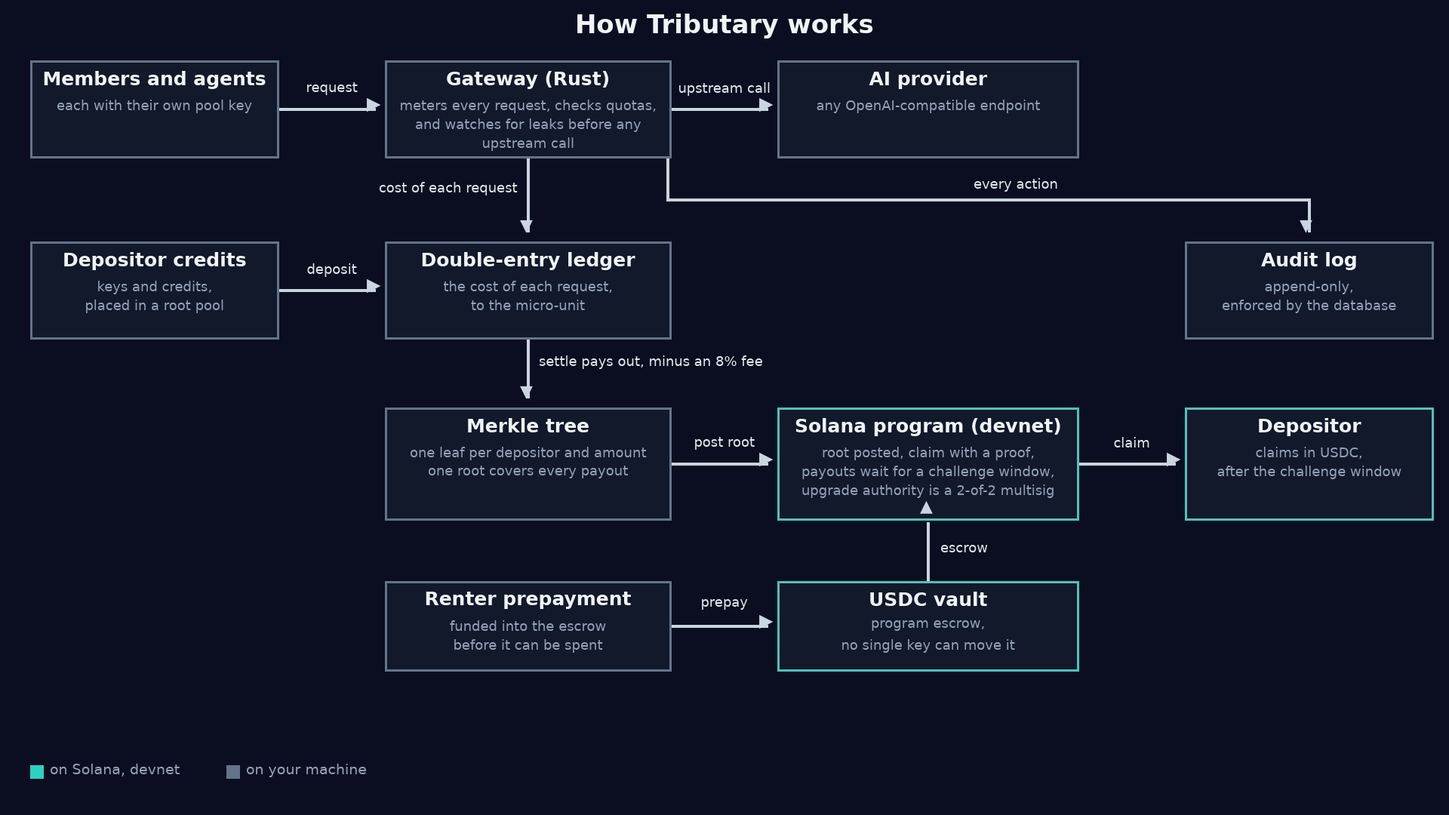
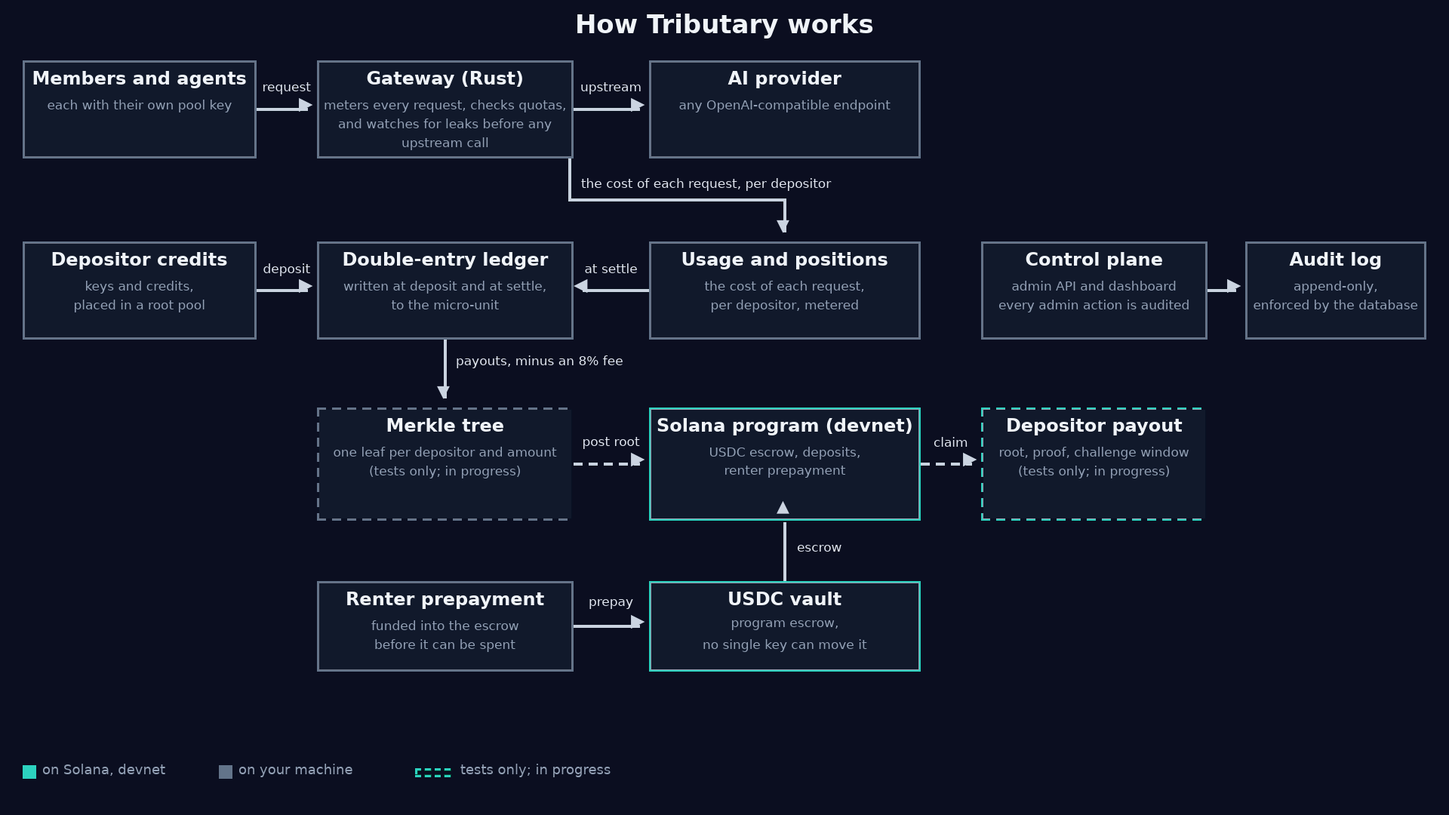
docs: README corrections after an independent review
A fresh reviewer, playing the event's AI judge, verified the README on
this branch against the repository, the chain and CI, and found twelve
errors, all in text the director wrote. Every one is corrected here:

- The worked example now uses the reproducible walkthrough run
  (5,400 burned, 432 fee, 4,968 paid) instead of unrecorded figures.
- Depositor mode was audited on 2026-11-18 and fixed on 2026-11-19; the
  README and the threat model no longer say "scheduled".
- The quickstart image is release v0.1.4, which carries depositor pools in
  a pre-audit form; the README says so.
- CI runs on pushes to main and on pull requests, not on every push.
- A request's cost is metered per request and posted to the books at settle;
  the README and the diagram said otherwise.
- The diagram's payout path is dashed and labelled "tests only"; a control
  plane box now feeds the audit log.
- Smaller corrections: the tagline, the pull size, a script that does not
  exist, two "in two minutes" headings, the event section, the landing link,
  the author line, alt text, the 2-of-3 production posture, one spelling of
  the event name, and "source-available" on the landing page.

Also records on A-062 the founder's ruling that a failed upstream answer
must not burn a depositor's credits (the repository had no trace of it).

Docs only: no code, no dependency, no test change.

diff --git a/landing/index.html b/landing/index.html
@@ -178,7 +178,7 @@ docker exec -it -e TRIBUTARY_DATABASE_URL=sqlite:///data/tributary.db \
         <summary>How is this different from OpenRouter or API relays?</summary>
         <p>They are hosted routers — one company's pipes. Your keys, traffic,
         and usage data pass through <em>their</em> building. Tributary is the
-        building you own: self-hosted, open source, your rules, your data.
+        building you own: self-hosted, source-available, your rules, your data.
         And on the market side they route spend — they don't settle
         <em>surplus</em> credits between strangers.</p>
       </details>

diff --git a/landing/slides-dev3pack/index.html b/landing/slides-dev3pack/index.html
@@ -36,7 +36,7 @@
 <div class="slide">
   <div class="kicker">V1 · shipped &amp; self-hosted</div>
   <h2>Every member gets<br>their <span class="accent">own key</span></h2>
-  <div class="sub">Quotas · leak detection · append-only audit.<br>One container, open source.</div>
+  <div class="sub">Quotas · leak detection · append-only audit.<br>One container, source-available.</div>
 </div>
 
 <div class="slide">

diff --git a/README.md b/README.md
@@ -5,18 +5,21 @@
 [![License: FSL-1.1-ALv2](https://img.shields.io/badge/license-FSL--1.1--ALv2-blue)](LICENSE)
 
 **Governed AI capacity: your team shares one AI key, everyone gets their
-own, and spare credits can earn, settled on Solana.**
+own, and spare credits can earn, with Solana payouts in progress on devnet.**
 
 Tributary is a self-hosted gateway for teams that share AI capacity. Each
 member gets a personal key. Every request is metered and checked before it
-reaches the provider. Every action lands in an append-only audit log.
+reaches the provider. Every admin action lands in an append-only audit log.
 Depositors can put spare keys and credits into a pool; what their credits
 earn is kept in a double-entry ledger. Paying those earnings out through a
 Solana program is the part being built now. The software is free and
 source-available (FSL-1.1-ALv2, which converts to Apache-2.0 after two
 years) and runs in one container on your own machine.
 
-![Dashboard: every member has their own key](docs/images/dashboard-org.png)
+**Landing page:** <https://phat1911.github.io/Tributary/>. There is no hosted
+demo: run it locally with the Quickstart below.
+
+![Dashboard: an organisation's members and its pools; keys are issued from a pool's page](docs/images/dashboard-org.png)
 
 ## At a glance
 
@@ -27,15 +30,18 @@ years) and runs in one container on your own machine.
   seen from two networks) raise review flags. An audit log, enforced
   append-only by the database, records every control-plane action.
 - **Depositor pools with real books.** A pool of kind `root` accepts
-  depositor credits. Each request's cost is a book entry. A settle run pays
-  each depositor what their credits earned, minus an 8% operator fee, and
-  posts the run to the ledger once.
-- **A Solana program on devnet, governed by a 2-of-2 multisig.** A USDC
-  escrow, deposits and renter prepayments are live. Merkle-settled payouts
+  depositor credits. Each request's cost is metered to the micro-unit
+  against the depositor whose credits burned, and posted to the books when
+  the window is settled. A settle run pays each depositor what their
+  credits earned, minus an 8% operator fee, once per window.
+- **A Solana program on devnet, governed by a 2-of-2 multisig** (2-of-3 is
+  the planned production posture). A USDC escrow, deposits and renter
+  prepayments are live. Merkle-settled payouts
   are being built tests-first: see [What exists today](#what-exists-today).
 - **Tests before code, in public.** Security-critical features are written
   as failing tests first and then implemented to green. CI runs on every
-  push. The audit log is public.
+  push to `main` and on every pull request. The security findings log,
+  [`AUDIT.md`](AUDIT.md), is public.
 
 ## The problem it solves
 
@@ -55,43 +61,49 @@ student developer who kept running into exactly this trade.
 
 ## How it works
 
-![Architecture: governance on your machine, settlement on Solana devnet](docs/images/architecture.png)
+![Architecture: governance on your machine, settlement on Solana devnet; the dashed Merkle payout path is tests only](docs/images/architecture.png)
 
 1. A member or an agent calls the gateway with **their own pool key**, using
    the OpenAI-compatible API.
 2. The gateway **meters the request, checks quotas and watches for leaks**
    before any upstream call. It then forwards to the provider with a
    depositor's key.
-3. The cost of the request is recorded in the **double-entry ledger**, to
-   the micro-unit, against the depositor whose credits burned.
-4. At **settle**, the books say exactly what each depositor earned: the burn
-   minus an 8% operator fee. The run is posted once and cannot pay the same
-   window twice.
+3. The cost of the request is **metered to the micro-unit** against the
+   depositor whose credits burned.
+4. At **settle**, the consumed capacity is posted to the **double-entry
+   ledger**, and the books say exactly what each depositor earned: the burn
+   minus an 8% operator fee. A window is settled once and cannot be paid
+   twice.
 5. The payouts are merkleized and the **root is posted to the Solana
    program**. A depositor claims with a proof after a challenge window.
    *This step is being built now: its twelve rules already exist as failing
    tests (see [What exists today](#what-exists-today)).*
 6. Every control-plane action is written to the **append-only audit log**.
 
-One real request, end to end, from the depositor-mode trial with a Gemini
-upstream: it burned **2,850 micro-USD** of a depositor's credit. At settle,
-the books recorded an operator fee of **228** and a payout of **2,622**. The
-same three numbers appear in the settle result, the ledger rows and the
-settlement screen. (Prices are a flat estimate in this version, not the
-provider's real price table yet.)
+A reproducible run, from the no-key walkthrough
+([`docs/founder-journey-settlement-screen.md`](docs/founder-journey-settlement-screen.md),
+Part B): two requests against the repository's mock upstream burn **2,700
+micro-USD** each, **5,400** in total. The settle run returns an operator fee
+of **432** and pays out **4,968**, and the same two figures appear on the
+settlement screen and in the ledger rows. (This version prices every token
+at a flat 150 micro-USD; the provider's real price table is not wired in
+yet.)
 
-![The settlement screen: each depositor's contributed, burned and earned](docs/images/settlement-screen.png)
+The settlement screen, with a five-depositor root pool after one 8% settle
+run (distributable $0.0378, fee $0.003024, paid out $0.034776):
+
+![The settlement screen: each depositor's contributed, burned and earned, and the result of a settle run](docs/images/settlement-screen.png)
 
 ## What exists today
 
 | Part | State | Evidence |
 |---|---|---|
 | Gateway, organisation pools, dashboard (V1) | Released as v0.1.4 | [Release](https://github.com/Phat1911/Tributary/releases), [CI](https://github.com/Phat1911/Tributary/actions/workflows/ci.yml), the [Quickstart](#try-it) below |
-| Depositor pools, double-entry ledger, settle API | On `main`, experimental | `crates/gateway`, `crates/ledger`; the [settlement journey](docs/founder-journey-settlement-screen.md) walks through the public API |
+| Depositor pools, double-entry ledger, settle API | Experimental. In v0.1.4 in a pre-audit form; the audited settle (idempotent, posting to the books) is on `main` only, not yet in the release image | `crates/gateway`, `crates/ledger`; the [settlement journey](docs/founder-journey-settlement-screen.md) walks through the public API; the audit and fix log is in [`PLAN.md`](PLAN.md) (2026-11-18 and 2026-11-19) |
 | Settlement screen | On `main` after v0.1.4; ships in the next release | Screenshot above; `apps/dashboard/app/org/settlement` |
 | Solana program: escrow vault, deposits, renter prepayment | Live on devnet since 2026-11-01 | [Program account](https://explorer.solana.com/address/9pEmyxftdRUZV2iw6ZzCNgZz9QygG53i7APNaWcEHvjX?cluster=devnet), [2-of-2 upgrade transaction](https://explorer.solana.com/tx/576QrbHPxvDB3P63nHedFA5hDqVBXJchzkauEvrpAJzHUyyDCnfd6KhXaRw2gePS7RF2NQh2eM5qsgj6wwCdeaP5?cluster=devnet), [soak report](docs/devnet-soak-m8.md) |
 | Merkle-settled payouts: root, claim, challenge window, payout cap | In progress: twelve rules written as failing tests, implementation next | [The tests](https://github.com/Phat1911/Tributary/blob/m11/doctrine-suite/programs/pool/tests/m11_doctrine.rs) on branch `m11/doctrine-suite`, and [their CI run, red by design](https://github.com/Phat1911/Tributary/actions/runs/45791887787) |
-| Adversarial audits | The escrow program was audited and fixed; depositor mode is scheduled | [`AUDIT.md`](AUDIT.md), [threat model](docs/threat-model.md) |
+| Adversarial audits | The escrow program was audited and fixed (2026-11-02); depositor mode was audited on 2026-11-18 (eight findings) and fixed on 2026-11-19; one residual found since is open (A-061) | [`AUDIT.md`](AUDIT.md), [threat model](docs/threat-model.md) |
 
 ![Review queue: leak signals with a severity and an action for each](docs/images/review-queue.png)
 
@@ -130,9 +142,13 @@ docker run -d --name tributary -p 8111:8080 --env-file .env \
 ```
 
 **Sign in at http://localhost:8111.** Time to first login is about **2
-minutes with the prebuilt image** (the first `up` pulls ~110 MB), or
+minutes with the prebuilt image** (the first `up` pulls about 40 MB), or
 **10–15 minutes if it builds from source** (a cold Rust and dashboard
 compile).
+
+**The `:latest` image is release v0.1.4.** It contains depositor pools in
+their pre-audit form, but not the audited settle or the settlement screen;
+those are on `main` and need an image built from it.
 
 > **If `docker compose up -d` says `unknown shorthand flag: 'd'`:** the
 > compose plugin is missing. Fix: Docker Desktop → Settings → Resources →
@@ -159,9 +175,12 @@ compile).
 > shape is not translated. The free tier of AI Studio is rate-limited: fine
 > for demos and pilots, but expect upstream 429s under load.
 
-### See the settlement in two minutes
+### See the settlement
 
-With the stack up and `TOKEN` set to an organisation admin's session token:
+Sign in with any admin account, including the one `create-admin` made
+(`POST /api/v1/auth/login`), keep the returned token in `TOKEN`, create an
+organisation (`POST /api/v1/orgs` with `{"name":"…","slug":"…"}`) and use
+its `id` below:
 
 ```sh
 API=http://localhost:8111/api/v1
@@ -172,16 +191,16 @@ curl -s -X POST $API/pools/<pool id>/deposits -H "Authorization: Bearer $TOKEN" 
   -d '{"provider":"openai","key":"<a provider key>","base_url":"https://api.openai.com/v1","model_families":["gpt-4o-mini"],"contributed_micros":5000000}'
 # 2. send a request with a member key (the dashboard issues one), then read the books
 curl -s $API/pools/<pool id>/bucket-positions -H "Authorization: Bearer $TOKEN"
-# 3. settle the last hour with an 8% fee
+# 3. settle a window (here: the last hour) with an 8% fee
 curl -s -X POST $API/pools/<pool id>/settle -H "Authorization: Bearer $TOKEN" -H 'content-type: application/json' \
   -d "{\"from_ms\":$(( ($(date +%s) - 3600) * 1000 )),\"to_ms\":$(date +%s)000,\"fee_bps\":800}"
 ```
 
-The dashboard shows the same books under **Settlement**. A complete
-walkthrough that needs no real key (it uses the repository's mock upstream)
+On an image built from `main`, the dashboard shows the same books under
+**Settlement**. A complete walkthrough that needs no real key (it uses the repository's mock upstream)
 is [`docs/founder-journey-settlement-screen.md`](docs/founder-journey-settlement-screen.md).
 
-### Verify the on-chain part in two minutes
+### Verify the on-chain part yourself
 
 - Open the [program account on devnet](https://explorer.solana.com/address/9pEmyxftdRUZV2iw6ZzCNgZz9QygG53i7APNaWcEHvjX?cluster=devnet):
   *Upgradeable: yes*, and *Upgrade authority* `BhLQqw…`, the multisig's vault.
@@ -192,7 +211,7 @@ is [`docs/founder-journey-settlement-screen.md`](docs/founder-journey-settlement
   `cd programs/pool && cargo-build-sbf --arch v3 && cd ../.. && cargo test -p pool`.
   Until the implementation lands, the twelve rule-named tests fail.
 
-## Built at Dev3pack x DSUC (Da Nang, 27–29 November 2026)
+## Built at Dev3pack × DSUC (Da Nang, 27–29 November 2026)
 
 Tributary is a submitted project at the Dev3pack × DSUC Build Station
 hackathon. The event's work is Merkle-settled payouts on Solana, built
@@ -203,7 +222,9 @@ devnet transactions.
   ([`1f12408`](https://github.com/Phat1911/Tributary/commit/1f12408)) and
   the twelve settlement rules as failing tests
   ([`2bcd448`](https://github.com/Phat1911/Tributary/commit/2bcd448)).
-- **During the event:** updated as each part lands.
+- **During the event (27–29 November):** in progress. No Merkle root has
+  been posted on devnet yet; receipts (commits, CI runs, transactions) will
+  be listed here as each part lands.
 
 ## Security and known limits
 
@@ -214,14 +235,16 @@ evidence, in public).
 
 Stated limits, as of this writing:
 
-- **Depositor mode is experimental.** Its adversarial audit is scheduled.
-  One high-severity finding is open, **A-061**: the order in which
+- **Depositor mode is experimental.** It was adversarially audited on
+  2026-11-18 and fixed on 2026-11-19. One high-severity finding has been
+  raised since and is open, **A-061**: the order in which
   depositors serve a model family can be steered by a depositor-supplied
   provider name. It has been ruled (the order will depend on contributed
   weight and deposit age, never on a supplied string) and is scheduled for
   the next fix session.
 - **Failed upstream calls that answer with an HTTP error still burn the
-  reserve estimate** (A-062). The fix is scheduled with A-061.
+  reserve estimate** (A-062). The founder has ruled that a failed answer
+  must not burn the depositor's credits; the fix is scheduled with A-061.
 - **The Merkle payout rules are tests, not code,** until the implementation
   lands on `main`.
 - **The program is on devnet only.** It has no on-chain `security.txt` and
@@ -279,7 +302,7 @@ apps/dashboard/    Next.js + TypeScript dashboard (pnpm workspace), baked into t
 programs/pool/     Solana program (Anchor): escrow vault, deposits, renter prepayment;
                    Merkle settlement (in progress)
 migrations/        sqlx migrations, run on SQLite and Postgres
-scripts/           demo seed, mock upstreams, devnet soak tool, price-table import
+scripts/           demo seed, mock upstreams, OpenAI-SDK contract test, devnet soak tool
 deploy/            Dockerfile, entrypoint, .env.example: single-container deployment
 docker-compose.yml the Quickstart deployment (reads a gitignored .env)
 landing/           the landing page, published on GitHub Pages
@@ -314,7 +337,7 @@ cd programs/pool && cargo-build-sbf --arch v3 && cd ../.. && cargo test -p pool
 ```
 
 CI ([`.github/workflows/ci.yml`](.github/workflows/ci.yml)) runs five jobs
-on every push: **rust** (fmt, clippy with warnings denied, the test suite on
+on every push to `main` and on every pull request: **rust** (fmt, clippy with warnings denied, the test suite on
 SQLite and Postgres), **dashboard** (lint, typecheck, build), **e2e**
 (Playwright journeys against a real stack), **sdk-contract** (the official
 OpenAI SDKs against OpenAI- and Gemini-compatible upstreams) and **deny**
@@ -323,7 +346,8 @@ OpenAI SDKs against OpenAI- and Gemini-compatible upstreams) and **deny**
 ## Author and license
 
 Built by Tran Dinh Hong Phat (Hong Phat), a second-year IT student in Da
-Nang, Vietnam.
+Nang, Vietnam. One maintainer builds Tributary today; the
+[threat model](docs/threat-model.md) says so plainly.
 
 Copyright 2026 Tran Dinh Hong Phat. Licensed under the
 [Functional Source License, Version 1.1, ALv2 Future License](LICENSE)

diff --git a/AUDIT.md b/AUDIT.md
@@ -69,7 +69,7 @@ Severities:
 | A-056 | 2026-11-19 | M9-D (cargo-deny, founder ruling) | med (accepted until revisit) | **lettre 0.11.23 — SIX advisories, all fixed in 0.11.24 (a patch bump): RUSTSEC-2026-0560 (STARTTLS response injection — a MITM on the SMTP connection can forge replies), 0561 (bare LF/CR dot-stuffing → SMTP command injection), 0562 (EHLO whitespace-only reply panic → DoS), 0563/0564 (lettre 0.11.23 advisory pair), 0565 (unbounded SMTP reply buffering → memory exhaustion by a malicious server).** Release-path: lettre compiles into tributary-control → gateway (the SECURITY ALERT EMAIL sender). Founder ruling 2026-11-19: no dependency changes before the hackathon; ignore-with-justification + revisit tripwire | accepted (operator-configured relay exposure; revisit ≥0.11.24) | Exposure honestly stated: every advisory requires the ATTACKER to control or MITM the SMTP conversation — i.e., the operator's configured relay (env SMTP host/creds) or a network adversary positioned on that connection (0560's STARTTLS case). Detections persist to the review-flag DB regardless — email is best-effort alerting; NO product data flows through SMTP. Mitigation available to operators today: point alerts at a trusted internal relay over a private network. `deny.toml` ignores all six ids with this rationale inline. TRIPWIRE (the founder's revisit-after-hackathon rule): target 2026-11-24, before M11-A and the Nov 26 travel — `cargo update -p lettre` to ≥0.11.24 and DELETE the six deny.toml lines; CI red on the deletion is the tripwire firing. The bump is a patch release (0.11.23→0.11.24), expected low-risk, but mid-freeze dep discipline defers it deliberately |
 | A-057 | 2026-11-26 | CI-green chore (cargo-deny) | low (fixed same session) | **RUSTSEC-2026-0592 (GHSA-hrj5-67jp-wqp9, published 2026-11-20): `url` 2.5.8 — stack overflow in `Url::origin()` on nested `blob:` URLs.** `origin()` recursed once per `blob:` prefix with no depth limit, so one crafted URL aborts the whole process (`catch_unwind` cannot catch a stack overflow). In the graph through `lettre` 0.11.23 (control → gateway: the alert-email sender), `reqwest` 0.12.28 (the control/gateway HTTP client + the solana dev tree), `sqlx-core` 0.9.0 and `solana-net-utils` 4.1.2. PRE-EXISTING main red: all four CI runs from [45574614316](https://github.com/Phat1911/Tributary/actions/runs/45574614316) (2026-11-25, on `77ccd74`) through [45640919015](https://github.com/Phat1911/Tributary/actions/runs/45640919015) failed the Supply-chain job on exactly this advisory (`advisories FAILED, bans ok, licenses ok, sources ok`) | fixed | Severity is LOW rather than the advisory's worst case: a graph-wide grep (848/848 registry crates in `Cargo.lock`, all unpacked locally) finds NO caller of `Url::origin()` / `url::quirks::origin()` — neither first-party nor any dependent (the other `origin()` hits are unrelated: sqlx's `Column::origin`, web-sys deprecation notes). The vulnerable function is unreachable from this codebase today; the damage was the red supply-chain gate. Patch: `url` 2.5.9 takes the inner URL's origin only for http/https/file and never recurses. **The lock could not move `url` alone:** 2.5.9's manifest requires `form_urlencoded ^1.2.3` while the lock pinned 1.2.2, so the kickoff's literal `cargo update -p url` was a no-op under Cargo's conservative `-p`; reported at the kickoff's "nothing else may change" tripwire, director ruled "land both" in-session. Landed: `cargo update -p url -p form_urlencoded` — exactly two lock entries (`url` 2.5.8→2.5.9, `form_urlencoded` 1.2.2→1.2.3; both checksums match the crates.io index; `form_urlencoded`'s other dependents `axum` 0.8.9 + `serde_urlencoded` 0.7.1 already accept it). `deny.toml` untouched (A-056 lettre and the zstd pair stay warnings-only ignores per the kickoff). Red → green locally: pre-patch lock `cargo deny check advisories` = `error[vulnerability]`, FAILED; patched lock `cargo deny check` = all four checks ok |
 | A-061 | 2026-11-26 | SCREEN-1 (settlement screen — found while staging its demo data) | **high (OPEN — residual of A-050. RULED by the founder, 2026-11-26: the order between depositors must never depend on a depositor-supplied string; rank by contributed weight (largest first), then by deposit age (oldest first). The standing pin must use a provider name that would WIN under today's code, so it fails until the fix lands. Fix in the next fix session, together with F1 (A-053/A-062); that session adds the SPEC entry in the same commit as the change)** | **Bucket resolution is STILL a free-string ordering game. The M9-D fix inverted the tie-break (ties now go to the SMALLEST provider) instead of removing it, and `provider` is still an unchecked deposit payload string — so a later depositor who picks a provider name that sorts BEFORE the incumbent's captures 100% of a family's traffic with 1% of the weight.** A-050's fix note says "no deposit payload string can steer the order"; its standing pin exercises only `"zzz"`, a string that now LOSES. **WHERE IT LIVES:** the provider leg of the tie-break, `provider.as_str() < known_provider.as_str()` in `bucket_for_model` (`crates/gateway/src/depositor_mode.rs:270-274`); `keys_for_model` then loads ONLY that provider's keys (`pk.provider = ?` at `:324`, bound at `:330`); the payload surface is `POST /api/v1/pools/{id}/deposits` → `provider` (any non-empty string, `crates/gateway/src/m9_api.rs:200-203`). **HOW IT FIRES (public API only; reproduced 2026-11-26 on image `tributary:m9exp` = main `3a57262`):** root pool allowing `m-test`; deposit X `{provider:"openai", model_families:["m-test"], contributed_micros:5000000}`; a member key; three chats → X serves (burned 8,100); then deposit Y `{provider:"aaa", …, contributed_micros:50000}`; six chats `{"model":"m-test","max_tokens":100}` → bucket-positions: `aaa` burned **16,200, `openai` unchanged at 8,100** (weight 1%). Controls, same stack: with `"zzz"` instead of `"aaa"` → `openai` took 6/6, `zzz` 0 (exactly the standing pin's scenario); at EQUAL weights (5,000,000 each) with `"aaa"` → `aaa` 6/6, `openai` 0 — ordering, not weight. Endpoint leg (two distinct mock upstreams): the six member prompts produced **6 POSTs at Y's `base_url`, 0 at X's**. Availability leg: seven more chats in the first pool → `429 bucket capacity exhausted: the estimated burn would exceed every depositor's contributed value in bucket aaa/m-test` while `openai` still held **4,991,900 of 5,000,000** unused. **WHAT IT BREAKS:** invariant 8 (realized routing ≝ declared weights — realized 100:0 at declared 1:99, and at 50:50); invariant 5's spirit (a funded, servable key is never dialed); member availability (a $0.05 deposit takes a family offline after ≈ $0.04 of burn); A-050's own "attacker-chosen endpoint receiving member prompts". **INFERRED, NOT RUN:** displacement of renter-funded revenue (root pools have no renter prepayment yet — M10). **HOW IT WAS FOUND:** by accident, through the new settlement screen's data — a `$2.00` `"gemini"` depositor took 12/12 `m-test` requests from `$5.00` and `$3.00` `"openai"` depositors, because `"gemini" < "openai"`. **For the fix session to weigh:** resolve a model to the SET of buckets whose declarations serve it and weight across them by `claims.contributed`; or make `provider` a closed registry. A-050's pin needs a symmetric successor (`"aaa"` vs `"openai"`) — a pin that only tests the losing string cannot see this class. **Demo note:** not triggerable with a single provider name — give every deposit the same `provider` string | **open — NOT fixed here: gateway code and gateway tests are outside SCREEN-1's scope; it routes to a fix session (workflow step 14). No test was edited, none weakened.** Severity is the worker's assessment; A-050 was ruled HIGH — the director rules | PoC = the "HOW IT FIRES" paragraph: public-API calls only, curl-able in about a minute on any running stack (a scripted version ran under gitignored `target/screen1-check/` during SCREEN-1 and was removed at close, step 13). Numbered A-061, past the A-058…A-060 already used on the unmerged `m11/doctrine-suite` branch, to avoid an id collision at merge |
-| A-062 | 2026-11-26 | SCREEN-1 (settlement screen) | low (observation — by design) | **The A-053 leg-2 floor charges upstream ERROR answers too, not only hostile `0/0` successes: any response that carries no usage block (here, an upstream 404 page) burns the reserve ESTIMATE. A misconfigured deposit `base_url` therefore does not merely fail — every failed request burns the depositor's credits, and those burns settle as that depositor's "earnings".** Transport failures (no HTTP answer at all) are handled differently: the reservation is released, no usage row lands, nothing is attributed (`crates/gateway/src/chat.rs:389-410`). HTTP-error answers with a body are not: `parse_nonstream_usage` reads `0/0`, and the floor at `chat.rs:624-642` substitutes `ctx.estimate`. The floor's stated target is the un-metered SUCCESS ("an upstream reporting usage 0/0 … capacity must still deplete"); whether a FAILED answer should burn the estimate is a product question this session does not settle | recorded (no change requested — this is the M9-D fix behaving as specified) | Seen 2026-11-26 on the SCREEN-1 throwaway stack (image `tributary:m9exp`): a deposit whose `base_url` lacked the version path (the gateway appends `/chat/completions`; the mock answered its own 404 page) → four chats, all `404` to the member; usage rows `status=404`, `prompt_tokens=0`, `completion_tokens=0`, `cost_micros=38,550` EACH (Σ 154,200) against a real cost of 2,700 for a successful mock request; bucket-positions `burned_micros` up by exactly that sum. Why recorded: (1) the settlement screen will show a depositor *earning* from failed requests — it is displaying the books faithfully, not mis-settling; (2) operator guidance now ships as trap 2 of `docs/founder-journey-settlement-screen.md` (`base_url` must end in the version path, no trailing slash) |
+| A-062 | 2026-11-26 | SCREEN-1 (settlement screen) | low (observation — by design so far. RULED by the founder on 2026-11-26: an upstream answer that carries no usage must not burn the depositor's credits; fix in the next fix session, together with A-061) | **The A-053 leg-2 floor charges upstream ERROR answers too, not only hostile `0/0` successes: any response that carries no usage block (here, an upstream 404 page) burns the reserve ESTIMATE. A misconfigured deposit `base_url` therefore does not merely fail — every failed request burns the depositor's credits, and those burns settle as that depositor's "earnings".** Transport failures (no HTTP answer at all) are handled differently: the reservation is released, no usage row lands, nothing is attributed (`crates/gateway/src/chat.rs:389-410`). HTTP-error answers with a body are not: `parse_nonstream_usage` reads `0/0`, and the floor at `chat.rs:624-642` substitutes `ctx.estimate`. The floor's stated target is the un-metered SUCCESS ("an upstream reporting usage 0/0 … capacity must still deplete"); whether a FAILED answer should burn the estimate is a product question this session does not settle | recorded (no change requested — this is the M9-D fix behaving as specified) | Seen 2026-11-26 on the SCREEN-1 throwaway stack (image `tributary:m9exp`): a deposit whose `base_url` lacked the version path (the gateway appends `/chat/completions`; the mock answered its own 404 page) → four chats, all `404` to the member; usage rows `status=404`, `prompt_tokens=0`, `completion_tokens=0`, `cost_micros=38,550` EACH (Σ 154,200) against a real cost of 2,700 for a successful mock request; bucket-positions `burned_micros` up by exactly that sum. Why recorded: (1) the settlement screen will show a depositor *earning* from failed requests — it is displaying the books faithfully, not mis-settling; (2) operator guidance now ships as trap 2 of `docs/founder-journey-settlement-screen.md` (`base_url` must end in the version path, no trailing slash) |
 
 ## Closed findings
 

diff --git a/docs/threat-model.md b/docs/threat-model.md
@@ -75,10 +75,10 @@ Stated plainly, because strangers should know where the walls are thin:
   member-key verification (login throttling, cookie flags, key hashing) is
   journey-tested and CI-pinned but has not had an independent end-to-end
   audit. **Flagged as seeking external review.**
-- **Depositor mode** (M9, root pools — experimental): the adversarial
-  audit session is scheduled for this week; until it runs and its findings
-  close, treat `kind:"root"` as exactly what the README says:
-  experimental.
+- **Depositor mode** (M9, root pools — experimental): adversarially
+  audited on 2026-11-18 (eight findings, A-047…A-054) and fixed on
+  2026-11-19. One residual found since, A-061, is open. Until it closes,
+  treat `kind:"root"` as exactly what the README says: experimental.
 
 If you review either of the flagged areas and find something: disclosure
 path below, finder credit in AUDIT.md, PoC-or-no-finding applies to us too.
